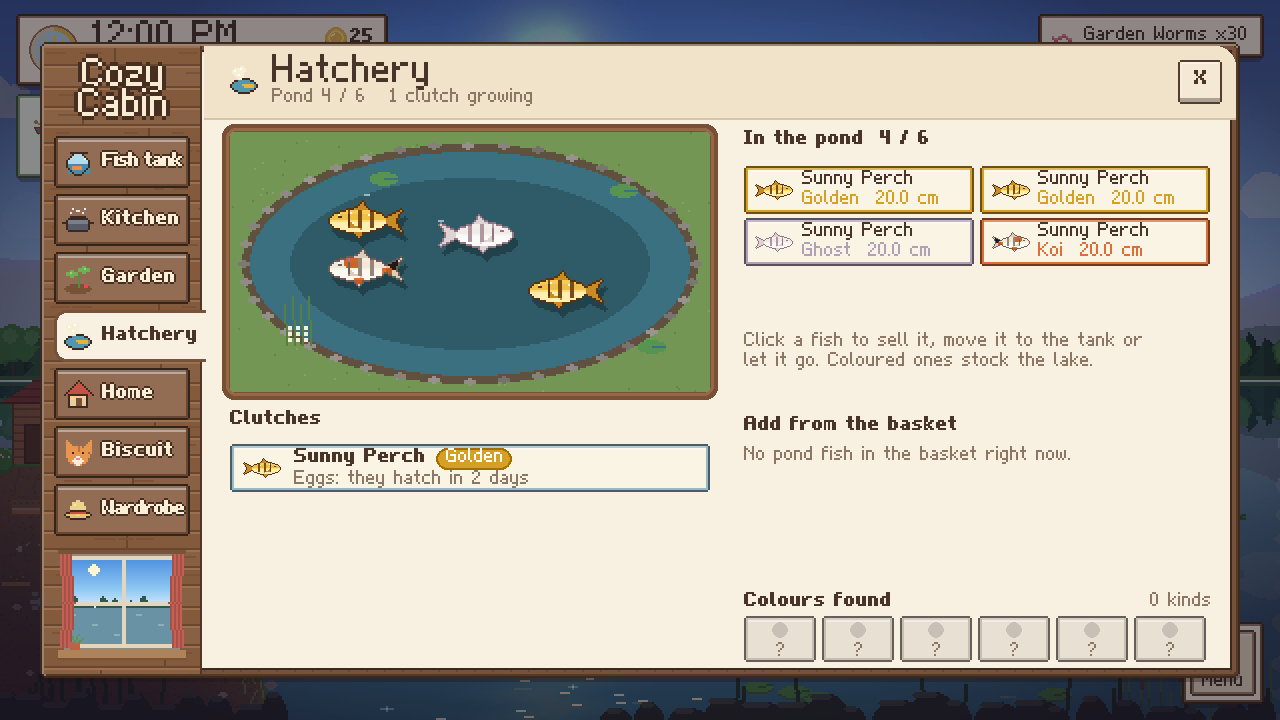
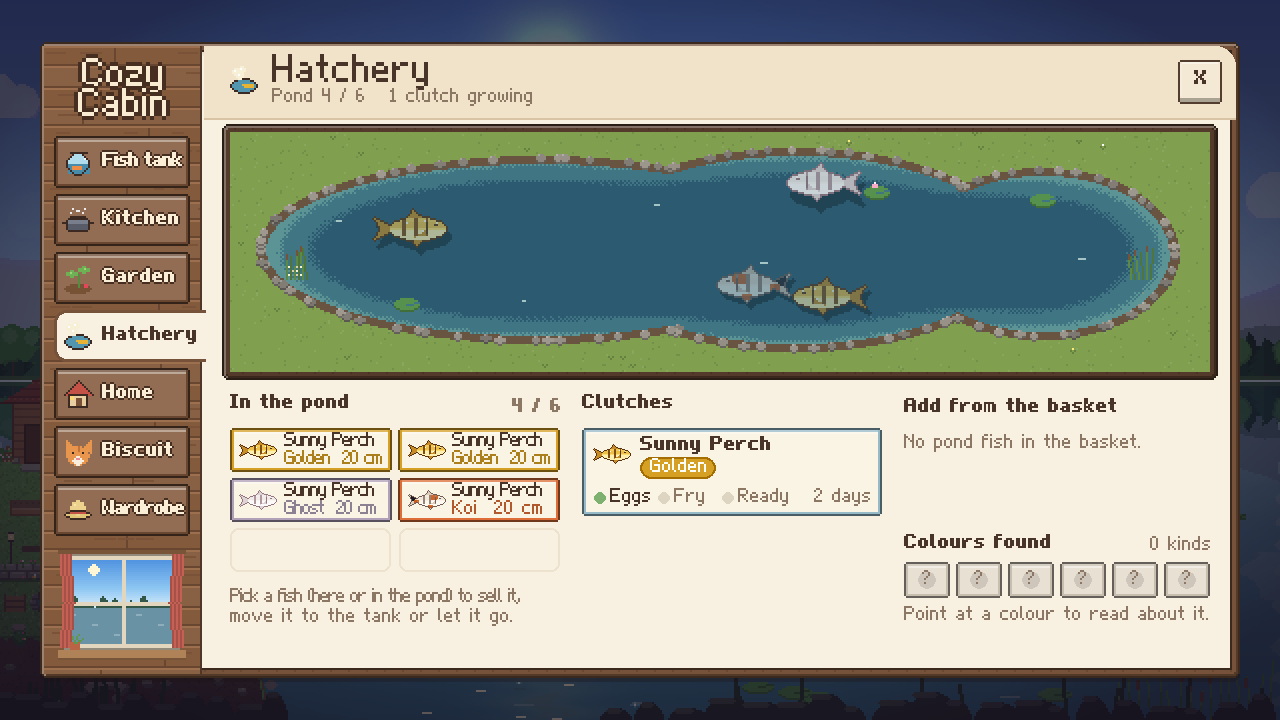
Refresh README for 0.3.9 with shop, garden and hatchery screenshots

diff --git a/README.md b/README.md
@@ -10,7 +10,23 @@ Grandma Rosie once tended four lanterns around the lake. Each wakes in a differe
 
 ## What’s new
 
-The latest update, **0.3.8**, opens **the Drowned Stair**, a fishing dungeon beneath the hill by your dock. Start with your hands and a bit of string, catch fish to open the next stair, and find better gear as you descend. A boss guards every fifth floor. At camp, choose whether to cash in your haul or head deeper. Lose your last heart and the run’s loot is gone.
+The latest update, **0.3.9**, makes life around the cabin easier to follow. The new default **Clean HUD** puts the time, day, and coins in one slim bar, with a single goal line, clickable daily-note icons, and a small bait count. Open a window such as the shop and the HUD steps aside.
+
+| The Trading Post | Your garden |
+| --- | --- |
+| ![The Trading Post’s tackle cards beside a detailed rod preview and buy button](docs/images/trading_post.png) | ![The cabin Garden tab with individual bed illustrations and gardening controls](docs/images/garden.png) |
+| **Choose your next upgrade.** Browse cards on a shelf, inspect a rod’s range and arc, or check your bait supply before buying. | **Tend each bed.** Spot thirsty crops by their water drops and ready harvests by their twinkles. |
+
+- **Sharper pixels.** The fishing camera’s zoom and larger interface sizes now use crisp pixel scaling, including interface sizes around 85% and up at 1080p.
+- **A living hatchery.** Fish wander, rest, avoid each other, and flick their tails. Fry dart through the reeds, ripples spread at the surface, and fireflies appear after dark.
+- **More help in the garden.** Blooming sunflowers bring bees that boost nearby harvests. A rain barrel waters dry beds, and new controls let you plant every empty bed or sell all your produce at once.
+- **A terraced cabin slope.** Find the garden above a flower-lined fieldstone wall, the pond and compost below, stepping stones from the door, and little lamps along the paths at night.
+
+[HUD and shop guide](docs/player-guide.md#the-hud) · [Garden guide](docs/player-guide.md#the-garden) · [Latest release notes](https://github.com/lilMarkoo/lantern-lake/releases/latest)
+
+## Go deeper, grow your collection
+
+Explore **the Drowned Stair**, introduced in 0.3.8, beneath the hill by your dock. Start with your hands and a bit of string, catch fish to open the next stair, and find better gear as you descend. A boss guards every fifth floor. At camp, choose whether to cash in your haul or head deeper. Lose your last heart and the run’s loot is gone.
 
 | Beneath the lake | Beside the cabin |
 | --- | --- |
@@ -21,7 +37,7 @@ The latest update, **0.3.8**, opens **the Drowned Stair**, a fishing dungeon ben
 - **A roomier cabin.** Browse tabs down the side of a new cabin window with a view of the lake, including the hatchery pond.
 - **Four new badges.** Raise your first clutch, discover every morph, beat your first dungeon boss, and reach floor 20.
 
-[Explore the Drowned Stair](docs/player-guide.md#the-drowned-stair) · [Learn about morphs and the hatchery](docs/player-guide.md#colour-morphs-and-the-hatchery) · [Read the latest release notes](https://github.com/lilMarkoo/lantern-lake/releases/latest)
+[Explore the Drowned Stair](docs/player-guide.md#the-drowned-stair) · [Learn about morphs and the hatchery](docs/player-guide.md#colour-morphs-and-the-hatchery)
 
 ## Make yourself at home
 
